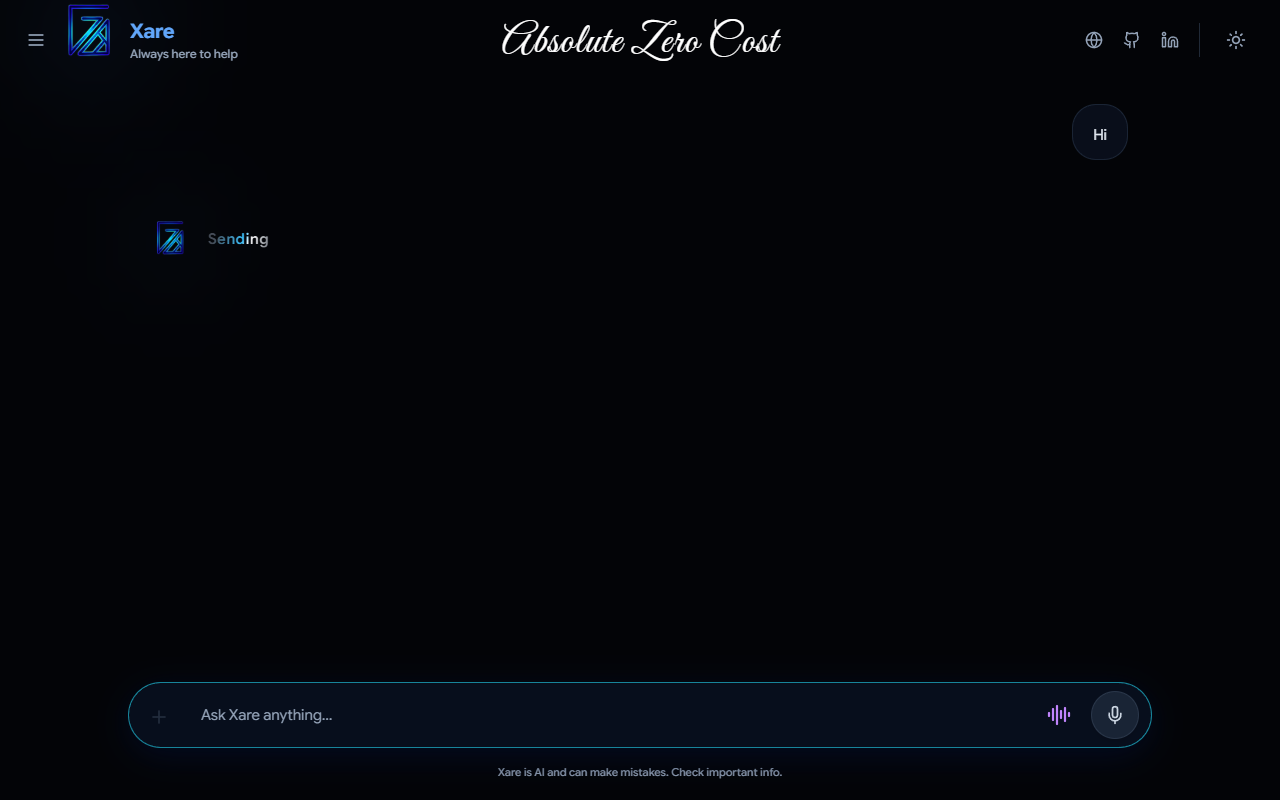
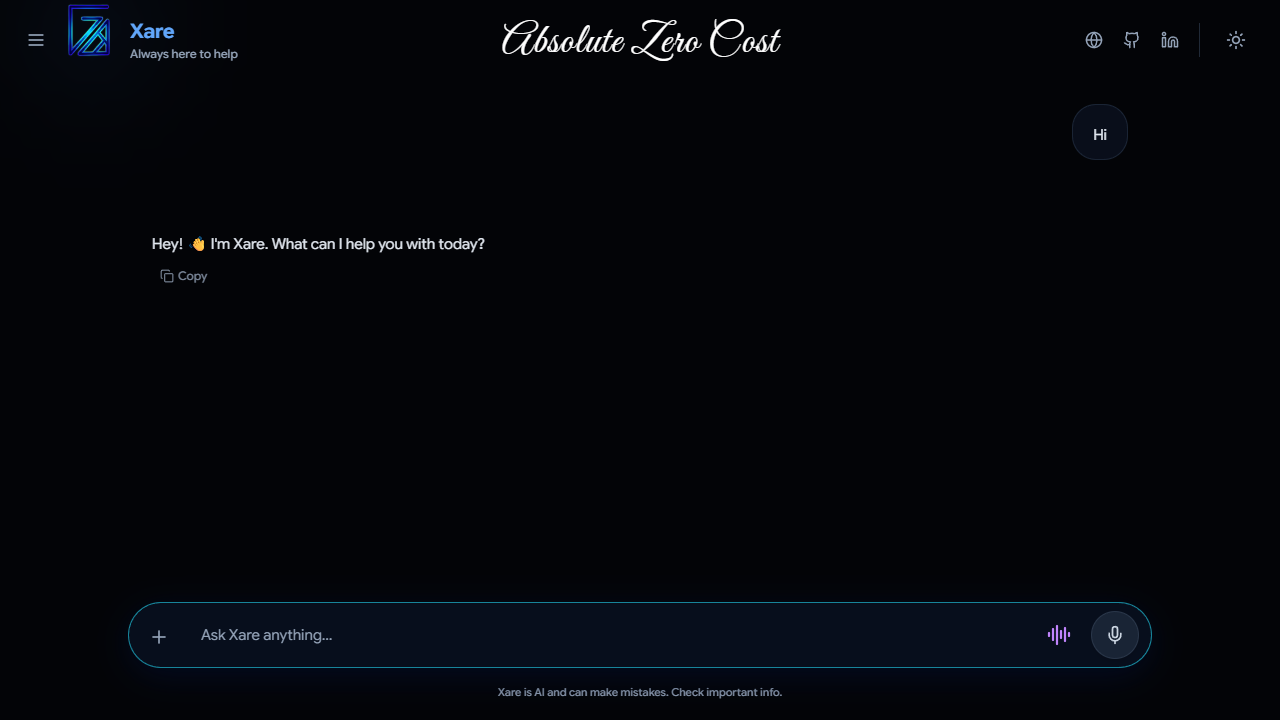
fix(warmup): shift schedule to off-peak minute 35 and improve browser UI response detection

diff --git a/api/warmup/index.ts b/api/warmup/index.ts
@@ -369,7 +369,7 @@ export default async function handler(req: Request) {
     return new Response(JSON.stringify({
       service: 'Xare AI Chat Warm-Up Subsystem',
       status: 'online',
-      cadence: 'Every 1 hour (0 * * * * UTC)',
+      cadence: 'Every 1 hour (35 * * * * UTC)',
       environment: process.env.VERCEL_ENV || 'production',
       lastExecutionTime: lastExecutionTime ? new Date(lastExecutionTime).toISOString() : null,
       cooldownRemainingSeconds: Math.max(0, Math.ceil((EXECUTION_COOLDOWN_MS - (Date.now() - lastExecutionTime)) / 1000)),
@@ -446,7 +446,7 @@ export default async function handler(req: Request) {
     const summary: WarmupRunSummary = {
       runId,
       idempotencyKey,
-      scheduledCadence: '0 * * * * (Every 1 hour UTC)',
+      scheduledCadence: '35 * * * * (Every 1 hour UTC)',
       timestamp: new Date(t_start).toISOString(),
       status: overallStatus,
       durationMs: t_end - t_start,

diff --git a/docs/warmup/README.md b/docs/warmup/README.md
@@ -9,7 +9,7 @@ When unvisited overnight or during idle hours:
 2. **Hugging Face Spaces (`aliiis-24-7-n8n.hf.space`)**: Pauses or puts container resources into an idle state. Un-warmed first requests to the primary chat pipeline took **30s to 75s+**, occasionally triggering client abort timeouts (`N8N_REQUEST_TIMEOUT_MS = 75000`).
 3. **Vercel Edge Functions (`/api/chat/stream`)**: Unloaded V8 worker instances, requiring cold DNS resolution and upstream SSL handshakes to Google Generative AI endpoints.
 
-The Warm-Up Subsystem dispatches an automated synthetic message (`Hi`) every **one hour** (`0 * * * * UTC`) through Xare's genuine website chat interface using headless browser automation (Playwright), verifying non-empty AI-generated completions in the real UI while keeping client-side pipelines, n8n, and Edge workers primed.
+The Warm-Up Subsystem dispatches an automated synthetic message (`Hi`) every **one hour** (`35 * * * * UTC`) through Xare's genuine website chat interface using headless browser automation (Playwright), verifying non-empty AI-generated completions in the real UI while keeping client-side pipelines, n8n, and Edge workers primed.
 
 ---
 
@@ -17,7 +17,7 @@ The Warm-Up Subsystem dispatches an automated synthetic message (`Hi`) every **o
 
 ```mermaid
 flowchart TD
-    Scheduler["Scheduler (GitHub Actions 0 * * * * UTC)"] --> Runner["Warm-Up Runner (scripts/warmup_runner.cjs)"]
+    Scheduler["Scheduler (GitHub Actions 35 * * * * UTC)"] --> Runner["Warm-Up Runner (scripts/warmup_runner.cjs)"]
     
     subgraph TargetUI ["Primary Target: Real Xare Website Chat Interface (Playwright)"]
         Runner -->|"Launch Headless Chromium"| Browser["Browser Automation Engine"]
@@ -79,14 +79,14 @@ The synthetic warm-up turn operates through the real user-facing web interface a
 ## 4. Scheduling & Cadence Configuration
 
 ### A. Recurring GitHub Actions Scheduler (`.github/workflows/warmup.yml`)
-- **Cadence**: Every 1 hour continuously (`0 * * * *`), firing at 00:00, 01:00, 02:00, 03:00, ..., 23:00 UTC.
+- **Cadence**: Every 1 hour continuously (`35 * * * *`), firing at 00:35, 01:35, 02:35, 03:35, ..., 23:35 UTC. Scheduled at minute 35 to avoid GitHub platform-level top-of-hour (:00) queue contention delays.
 - **Independence**: Runs completely in the cloud on GitHub Actions runners, independent of any open browser tab or client machine.
 - **Browser Automation in CI**: Headless Chromium is installed and executed in the runner (`npx playwright install --with-deps chromium`).
 - **Concurrency Guard**: `group: xare-chat-warmup`, `cancel-in-progress: false` ensures zero duplicate overlapping runs.
 - **Manual Trigger**: Supports `workflow_dispatch` with custom target selection (`browser`, `all`, `n8n`, `edge`) and repeat count for benchmarking.
 
 ### B. Scheduler Single Source of Truth
-- **Dedicated Cloud Runner**: GitHub Actions executes the full 1-hour cadence continuously (`0 * * * * UTC`) without plan restrictions or charges.
+- **Dedicated Cloud Runner**: GitHub Actions executes the full 1-hour cadence continuously (`35 * * * * UTC`) without plan restrictions or charges.
 - **Vercel Cron Removed**: The daily cron was removed from `vercel.json` to eliminate duplicate scheduler drift, eliminate confusion between daily vs 1-hour triggers, and avoid Vercel Hobby plan 1-cron/day restrictions. All scheduling is managed strictly via GitHub Actions.
 
 ---

diff --git a/README.md b/README.md
@@ -673,7 +673,7 @@ node scripts/verify_live_deploy.cjs
 To eliminate cold-start freezing and request timeouts when the application has been idle (such as overnight or during periods without real users), Xare AI implements a verified, automated **One-Hour Chat Warm-Up Subsystem**.
 
 ### Architecture & Pipeline Overview
-- **Recurring Cloud Cadence**: Scheduled every 1 hour continuously (`0 * * * * UTC`) via GitHub Actions (`.github/workflows/warmup.yml`). Operates completely in the cloud, running resilient headless browser automation.
+- **Recurring Cloud Cadence**: Scheduled every 1 hour continuously (`35 * * * * UTC`) via GitHub Actions (`.github/workflows/warmup.yml`). Operates completely in the cloud, running resilient headless browser automation.
 - **Genuine Browser UI Interaction**: Dispatches the exact synthetic message `Hi` through the real user-facing Xare chat interface using browser automation (Playwright), entering guest mode, typing into the input textarea, submitting via Enter, and capturing before/after screenshots as durable proof.
 - **Target Inferences Warmed**:
   1. **Live Web Chat Interface (`https://xare-ai.vercel.app/`)**: Full browser-driven user interaction traversing client-side React state, WebSocket/SSE streaming, and rendering pipelines.

diff --git a/docs/warmup/BENCHMARK_REPORT.md b/docs/warmup/BENCHMARK_REPORT.md
@@ -53,12 +53,12 @@ Measurements evaluate three critical targets:
 
 ## 4. Cost, Bandwidth & Resource Impact Audit
 
-### Schedule Target: Hourly (`0 * * * * UTC`)
-The warm-up scheduler runs every 1 hour continuously, ensuring zero cold-start delay for any real user visiting the site at any time of day or night.
+### Schedule Target: Hourly (`35 * * * * UTC`)
+The warm-up scheduler runs every 1 hour continuously, ensuring zero cold-start delay for any real user visiting the site at any time of day or night. Scheduled at minute 35 to avoid GitHub platform-level top-of-hour (:00) queue contention.
 
 | Parameter | Value | Assessment |
 | :--- | :--- | :--- |
-| **Invocation Cadence** | Every 1 hour (`0 * * * * UTC`) | Continuous 24/7 background priming |
+| **Invocation Cadence** | Every 1 hour (`35 * * * * UTC`) | Continuous 24/7 background priming |
 | **Runs Per 24 Hours** | 24 runs | Prevents any container or edge worker idle sleep |
 | **Runs Per Month (30 days)** | 720 runs | Well within GitHub Actions free tier (2,000 min/month) |
 | **Run Duration in CI** | ~30–45 seconds per run | Consumes ~360–540 GitHub Actions minutes/month |
